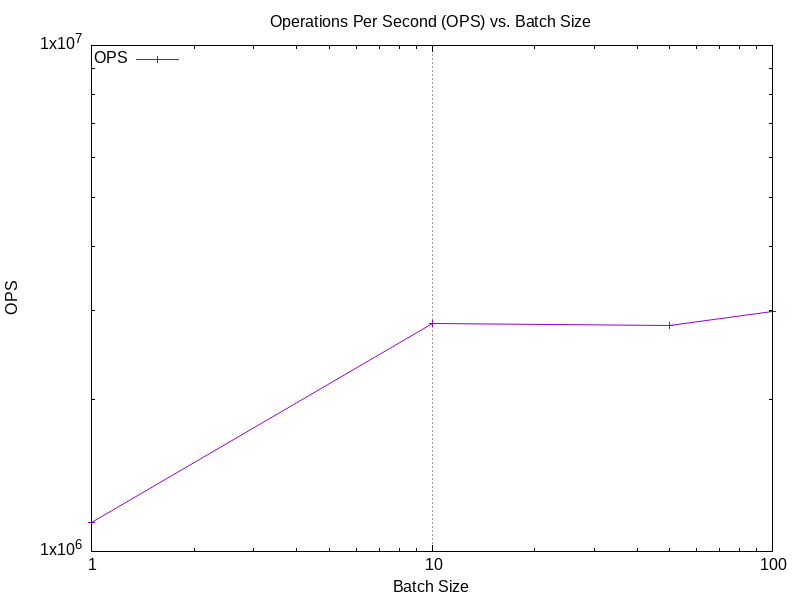
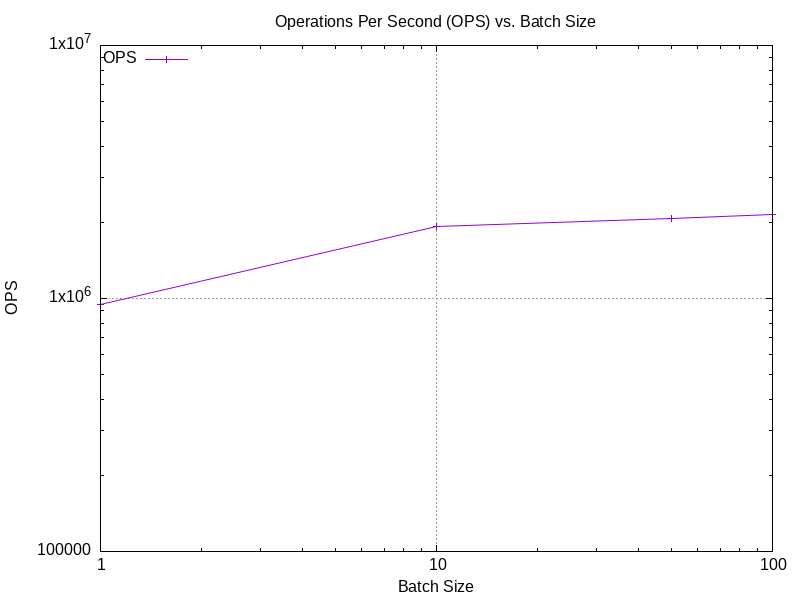
update

diff --git a/app/transaction.go b/app/transaction.go
@@ -42,7 +42,7 @@ func (tp *TransactionProcessor) ValidateTransaction(tx *types.Transaction) error
 		return err
 	}
 
-	// Validate each operation individually
+	// Validate each operation individually, including signature verification
 	for i, op := range tx.Operations {
 		if err := tp.ValidateOperation(&op); err != nil {
 			return fmt.Errorf("operation %d: %w", i, err)

diff --git a/benchmark_results/memory/benchmark_report.md b/benchmark_results/memory/benchmark_report.md
@@ -1,6 +1,6 @@
 # Benchmark Report
 
-Generated at: 2025-03-18 01:49:20
+Generated at: 2025-03-18 12:04:21
 
 ## Results
 
@@ -8,16 +8,16 @@ Generated at: 2025-03-18 01:49:20
 
 | Batch Size | TPS | OPS | Latency (ms) | Storage Backend |
 |------------|-----|-----|--------------|----------------|
-| 1 | 1142824.49 | 1142824.49 | 0.00 | memory |
-| 10 | 282253.85 | 2822538.53 | 0.00 | memory |
-| 50 | 55859.37 | 2792968.42 | 0.00 | memory |
-| 100 | 29846.65 | 2984664.79 | 0.00 | memory |
+| 1 | 945733.79 | 945733.79 | 0.00 | memory |
+| 10 | 193087.47 | 1930874.69 | 0.00 | memory |
+| 50 | 41438.84 | 2071941.97 | 0.00 | memory |
+| 100 | 21511.62 | 2151162.17 | 0.00 | memory |
 
 ### Storage Backend Impact (Batch Size = 100)
 
 | Storage Backend | TPS | OPS | Latency (ms) |
 |-----------------|-----|-----|--------------|
-| memory | 29846.65 | 2984664.79 | 0.00 |
+| memory | 21511.62 | 2151162.17 | 0.00 |
 
 ## Analysis
 
